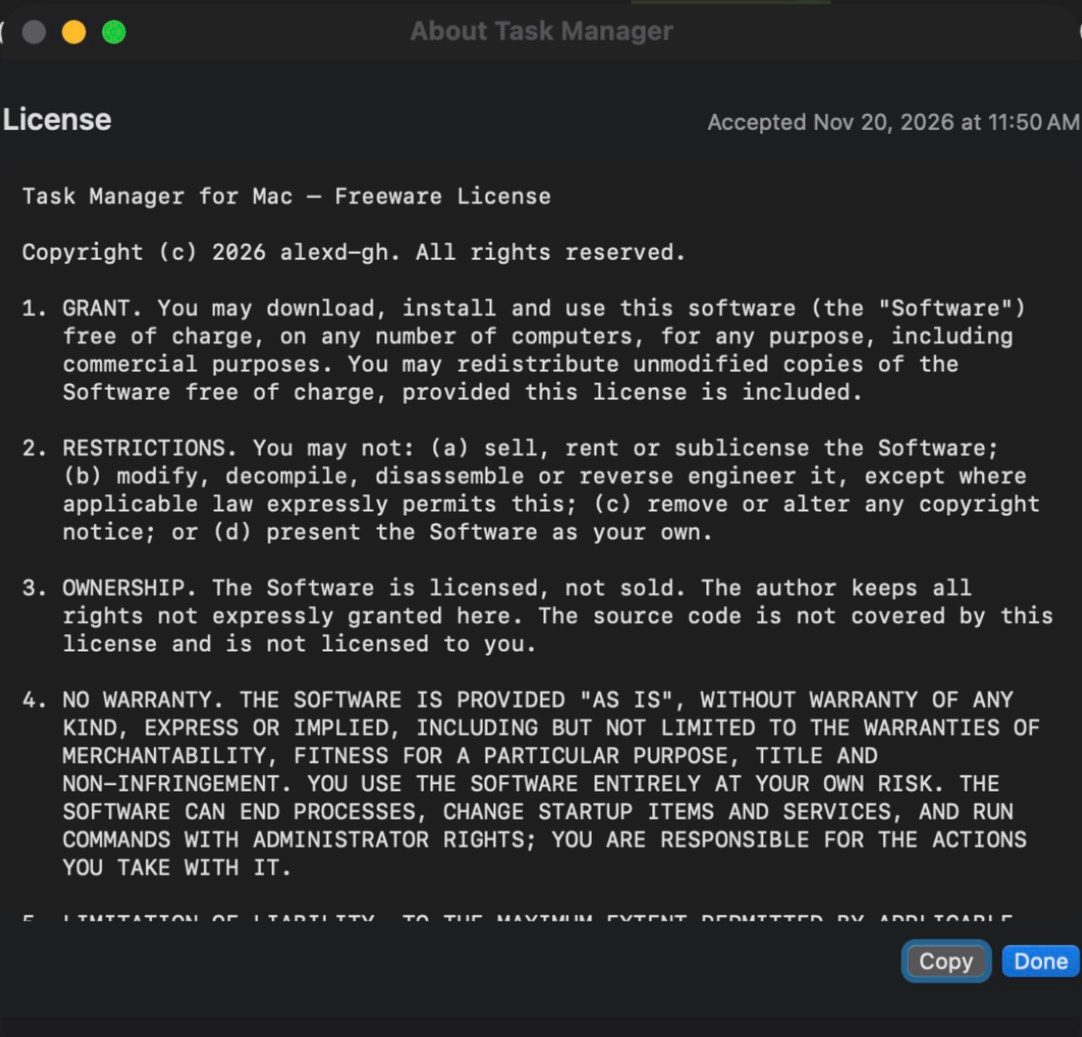
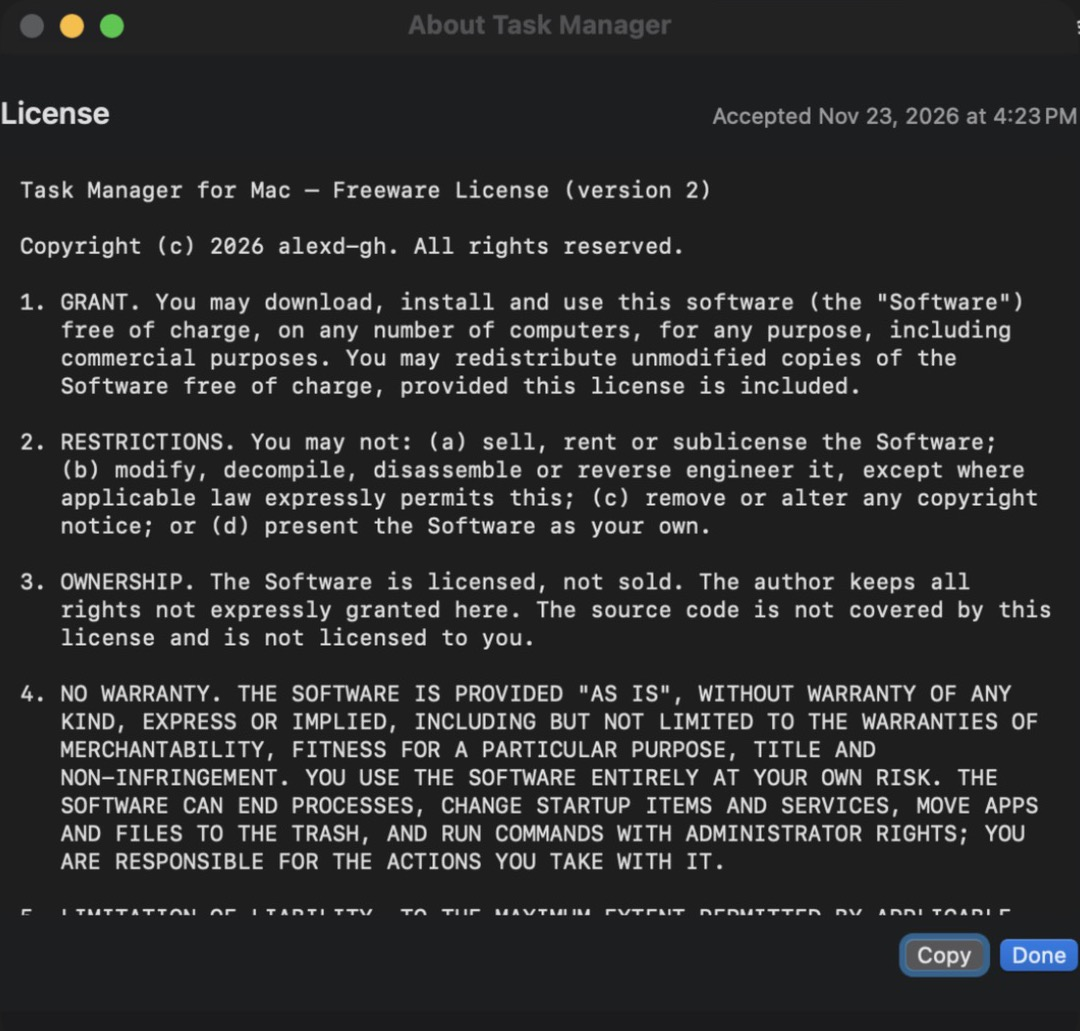
Show the version 2 license prompt in the docs
New screenshots of the first-launch prompt (Accept off at the top, on at the end) in the README's First launch section and on the screenshots page; About and About › License retaken for 1.9.

diff --git a/docs/screenshots.md b/docs/screenshots.md
@@ -6,7 +6,7 @@ are covered with grey bars; everything else is as the app shows it.
 
 [Processes](#processes) · [Performance](#performance) · [App history](#app-history) · [Startup apps](#startup-apps) ·
 [Users](#users) · [Details](#details) · [Services](#services) · [Settings](#settings) · [Extended graphs](#extended-graphs) ·
-[Advanced pages](#advanced-pages) · [About and license](#about-and-license) · [New in 1.2 to 1.7](#new-in-12-to-17)
+[Advanced pages](#advanced-pages) · [About and license](#about-and-license) · [New in 1.2 to 1.8](#new-in-12-to-18)
 
 Back to the [README](../README.md) · [Technical overview](technical-overview.md)
 
@@ -260,9 +260,19 @@ Task Manager › About Task Manager shows the version, build and the changes in 
 
 ![About Task Manager](images/about.jpg)
 
-License… shows the full license and when you accepted it. The first launch asks you to accept the same text.
+License… shows the full license and when you accepted it.
 
 ![License](images/about-license.jpg)
+
+The first launch asks you to accept the same text before any window opens, and again whenever the terms change (as
+with license version 2 in 1.9). **Accept** stays off until you scroll to the end of the license; **Quit** or Escape
+closes the app.
+
+![License prompt, Accept off at the top](images/license-prompt.jpg)
+
+At the end of the text, the line under it says so and Accept turns on:
+
+![License prompt at the end, Accept on](images/license-prompt-end.jpg)
 
 ## New in 1.2 to 1.8
 

diff --git a/README.md b/README.md
@@ -54,6 +54,13 @@ unzip it and drag **Task Manager** to Applications.
    asked again only if the license terms change. The text is always available under Task Manager › About Task
    Manager › License….
 
+<table>
+  <tr>
+    <td><img src="docs/images/license-prompt.jpg" alt="License prompt with Accept off"><br><sub>Accept is off until you reach the end</sub></td>
+    <td><img src="docs/images/license-prompt-end.jpg" alt="License prompt at the end, Accept on"><br><sub>At the end, Accept turns on</sub></td>
+  </tr>
+</table>
+
 ## What's new in 1.9
 
 - **License version 2.** Liability is now capped at US $1 in direct damages instead of excluded outright, and
